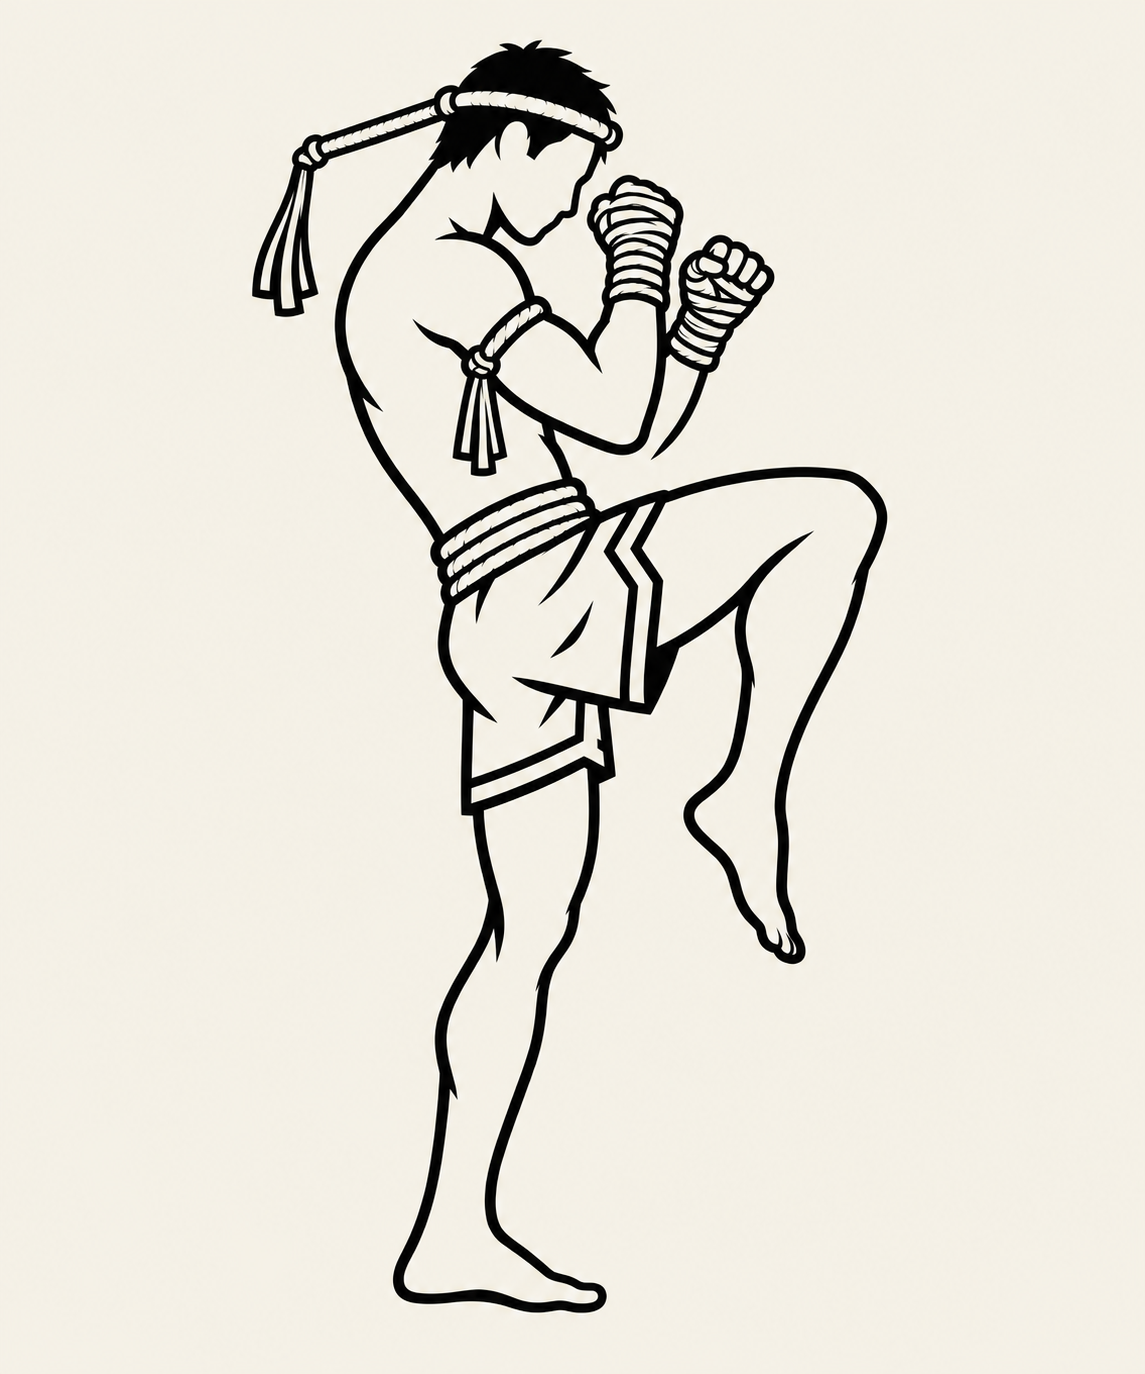
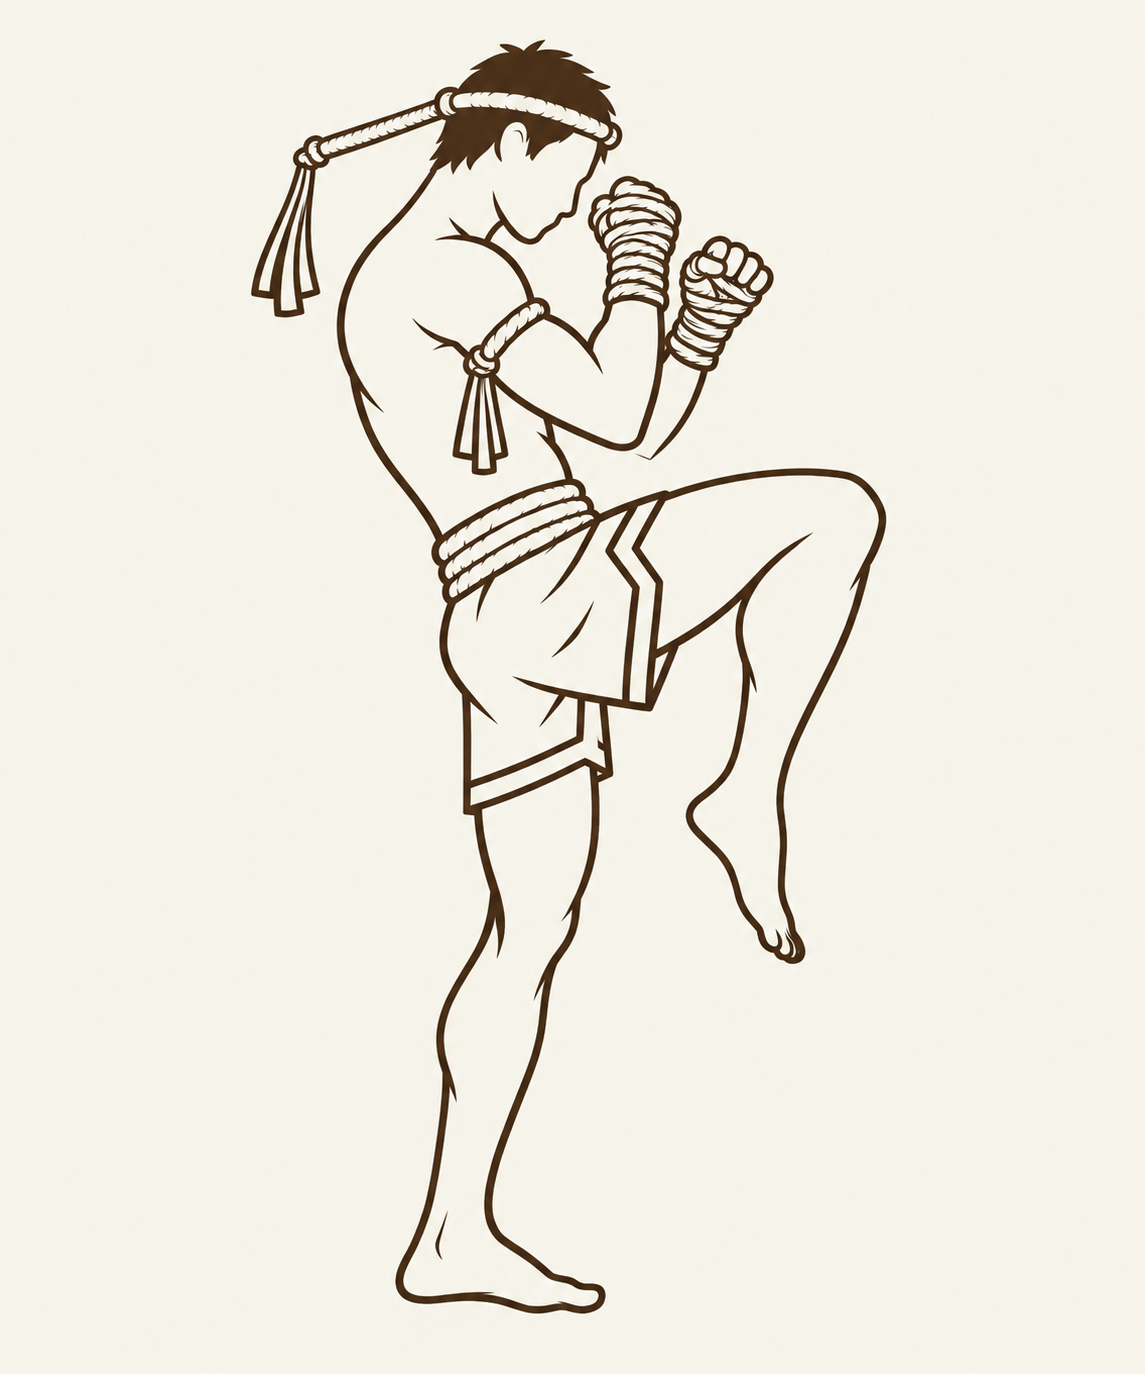
MVP Ready

diff --git a/client/src/styles.css b/client/src/styles.css
@@ -119,6 +119,7 @@ p {
 	display: flex;
 	flex-direction: column;
 	width: 95%;
+	min-width: 60rem;
 	margin: 0 auto;
 	background-color: #F5F2E9;
 }
@@ -195,15 +196,20 @@ nav {
 .elephantoutline {
 	width: 21rem;
 	height: auto;
-	margin: 2rem auto 0 auto;
+	margin: 2rem auto 0.5rem auto;
 	filter: brightness(0.99);
 }
-.glovesoutline,
+.glovesoutline {
+	width: 21rem;
+	height: auto;
+	margin: 0 auto;
+	filter: brightness(1);
+}
 .muaythaioutline {
 	width: 21rem;
 	height: auto;
 	margin: 0 auto;
-	filter: brightness(1.01);
+	filter: brightness(.99);
 }
 .programs .child {
 	width: 100%;

diff --git a/client/src/pages/Contact.tsx b/client/src/pages/Contact.tsx
@@ -17,7 +17,7 @@ const Contact = () => {
 
 	const handleSendMessage = (event: React.FormEvent<HTMLFormElement>) => {
 		event.preventDefault();
-		alert("Thank you for reaching out.")
+		alert("This is a demonstration form. No message was sent.");
 		setMessageData({
 			name: "",
 			email: "",
